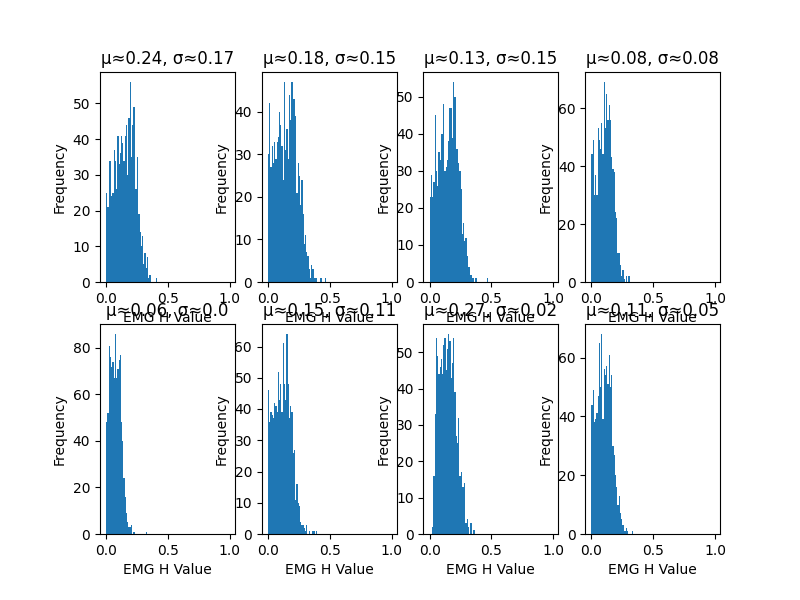
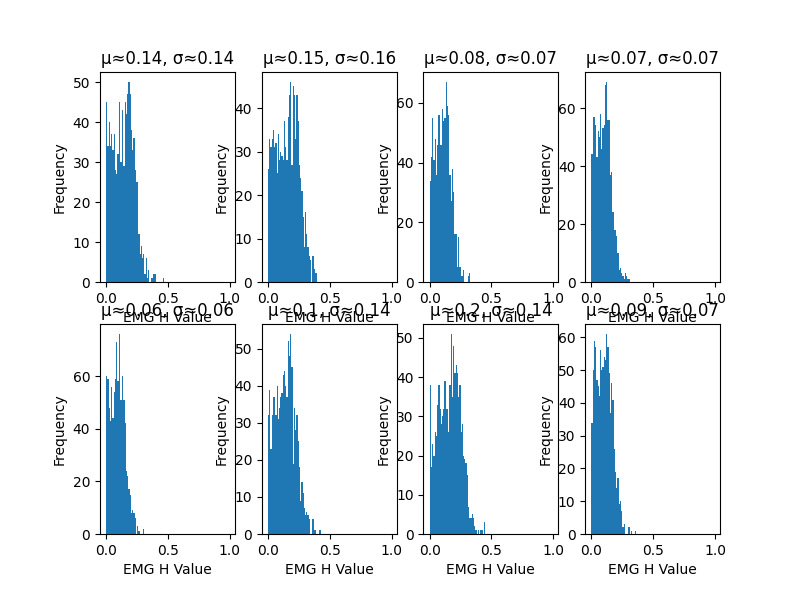
2/9 code

diff --git a/src/script/find_similar_synergies.py b/src/script/find_similar_synergies.py
@@ -14,17 +14,19 @@ from scipy.stats import truncnorm, norm
 from sklearn.preprocessing import normalize
 
 # Input: An 1D array of CSV files containing a reference data CSV and a matching data CSV
-# Returns: H_refs and H_matches, each of which is a dictionary where the key is the tuple (participant, task) and the value is the optimal H
+# Returns: H_refs and H_matches, each of which is a dictionary where the key is the tuple (participant, task) and the value is the optimal H, as well as W_ref and W_match
 def find_all_Hs(data):
     H_refs = {}
     H_matches = {}
+    W_ref = []
+    W_match = []
     for mat in data:
         match_df = pd.read_csv(mat)
         #all_participants = ['c02', 'c04', 'c05', 'c07', 'c08', 'c09', 'c10'] # omitted c06 for now
         #all_tasks = ['10%', '30%', '50%']
         # Group by task
         all_participants = ['c02']
-        all_tasks = ['30%']
+        all_tasks = ['50%']
         for participant in all_participants:
             for task in all_tasks:
                 load_data = match_df.loc[(match_df['Task'] == task) & (match_df['Su'] != 'c06')]
@@ -76,12 +78,14 @@ def find_all_Hs(data):
                     print("H: " + str(H_best))
                     print("EMG mean weights: " + str(np.mean(W_best, axis=0)))
                     H_refs[(participant, task)] = H_best
+                    W_ref = W_best
                     #x=0
                 elif 'match' in mat:
                     print("Match")
                     print("H: " + str(H_best))
                     print("EMG mean weights: " + str(np.mean(W_best, axis=0)))
                     H_matches[(participant, task)] = H_best
+                    W_match = W_best
 
 
     # Plot histogram of H_matches[0]
@@ -100,14 +104,16 @@ def find_all_Hs(data):
     plt.savefig('H_matches histogram for ' + str(task) + ' task')
     plt.show()
 
-    return H_refs, H_matches
+    return H_refs, H_matches, W_ref, W_match
 
 
 def scalar_prod_similarity_normal():
     datasets = np.array(['../data/referenceData_121120.csv', '../data/matchData_121120.csv'])
 
     # Find Hs for all the datasets
-    H_refs, H_matches = find_all_Hs(datasets)
+    H_refs, H_matches, W_ref, W_match = find_all_Hs(datasets)
+    H_refs[0] = normalize(list(H_refs.values())[0], norm='l1')
+    H_matches[0] = normalize(list(H_matches.values())[0], norm='l1')
     if H_refs == None or H_matches == None:
         return
 
@@ -154,7 +160,8 @@ def scalar_prod_similarity_normal():
         for hmatch in H_matches.keys():
             for i in range(0, H_refs[href].shape[0]):
                 for j in range(0, H_matches[hmatch].shape[0]):
-                    scalar_prods[(href, i, hmatch, j)] = np.dot(H_refs[href][i,:], H_matches[hmatch][j,:])
+                    #scalar_prods[(href, i, hmatch, j)] = np.dot(H_refs[href][i,:], H_matches[hmatch][j,:])
+                    scalar_prods[("H_ref", i, "H_match", j)] = np.dot(H_refs[href][i, :], H_matches[hmatch][j, :])
 
     # Add scalar products of H_ref_rand and H_match_rand to the dictionary
     # key is of form ("H_ref_rand", H_ref row, "H_match_rand", H_match row)
@@ -239,7 +246,8 @@ def scalar_prod_similarity_truncnorm():
         for hmatch in H_matches.keys():
             for i in range(0, H_refs[href].shape[0]):
                 for j in range(0, H_matches[hmatch].shape[0]):
-                    scalar_prods[(href, i, hmatch, j)] = np.dot(H_refs[href][i,:], H_matches[hmatch][j,:])
+                    #scalar_prods[(href, i, hmatch, j)] = np.dot(H_refs[href][i,:], H_matches[hmatch][j,:])
+                    scalar_prods[("H_ref", i, "H_match", j)] = np.dot(H_refs[href][i, :], H_matches[hmatch][j, :])
 
     # Add scalar products of H_ref_rand and H_match_rand to the dictionary
     # key is of form ("H_ref_rand", H_ref row, "H_match_rand", H_match row)
@@ -266,7 +274,7 @@ def scalar_prod_similarity_uniform():
     datasets = np.array(['../data/referenceData_121120.csv', '../data/matchData_121120.csv'])
 
     # Find Hs for all the datasets
-    H_refs, H_matches = find_all_Hs(datasets)
+    H_refs, H_matches, W_ref, W_match = find_all_Hs(datasets)
     print("H_refs: " + str(H_refs))
     print("H_matches: " + str(H_matches))
     if H_refs == None or H_matches == None:
@@ -274,15 +282,22 @@ def scalar_prod_similarity_uniform():
 
     plt.rcParams["figure.figsize"] = (8, 6)
     fig, axs = plt.subplots(2, 2)
+    """
     x_axis_names = ['Bicep', 'Tricep lateral',
                     'Anterior deltoid', 'Medial deltoid',
                     'Posterior deltoid', 'Pectoralis major',
                     'Lower trapezius', 'Middle trapezius']
+    """
+    x_axis_names = ['Bicep', 'Tri. lat.',
+                    'Ant. delt.', 'Med. delt.',
+                    'Post. delt.', 'Pect. major',
+                    'Lower trap.', 'Mid. trap.']
     x = np.arange(0,8)
     H_matches_values = list(H_matches.values())
     for syn in range(0, H_matches_values[0].shape[0]):
         axs[int(syn/2), syn % 2].bar(x, H_matches_values[0][syn,:])
-        axs[int(syn/2), syn % 2].set_xticklabels(x_axis_names, rotation=15)
+        axs[int(syn/2), syn % 2].set_xticks(np.arange(0,8))
+        axs[int(syn/2), syn % 2].set_xticklabels(x_axis_names, rotation=45)
         axs[int(syn/2), syn % 2].set_title('Row ' + str(syn))
         axs[int(syn/2), syn % 2].set_xlabel('EMG')
         axs[int(syn/2), syn % 2].set_ylabel('H Value')
@@ -297,7 +312,8 @@ def scalar_prod_similarity_uniform():
     H_refs_values = list(H_refs.values())
     for syn in range(0, H_refs_values[0].shape[0]):
         axs[int(syn / 2), syn % 2].bar(x, H_refs_values[0][syn, :])
-        axs[int(syn / 2), syn % 2].set_xticklabels(x_axis_names, rotation=15)
+        axs[int(syn / 2), syn % 2].set_xticks(np.arange(0, 8))
+        axs[int(syn / 2), syn % 2].set_xticklabels(x_axis_names, rotation=45)
         axs[int(syn / 2), syn % 2].set_title('Row ' + str(syn))
         axs[int(syn / 2), syn % 2].set_xlabel('EMG')
         axs[int(syn / 2), syn % 2].set_ylabel('H Value')
@@ -374,7 +390,8 @@ def scalar_prod_similarity_uniform():
         for hmatch in H_matches.keys():
             for i in range(0, H_refs[href].shape[0]):
                 for j in range(0, H_matches[hmatch].shape[0]):
-                    scalar_prods[(href, i, hmatch, j)] = np.dot(H_refs[href][i,:], H_matches[hmatch][j,:])
+                    #scalar_prods[(href, i, hmatch, j)] = np.dot(H_refs[href][i, :], H_matches[hmatch][j, :])
+                    scalar_prods[("H_ref", i, "H_match", j)] = np.dot(H_refs[href][i,:], H_matches[hmatch][j,:])
 
     # Add scalar products of H_ref_rand and H_match_rand to the dictionary
     # key is of form ("H_ref_rand", H_ref row, "H_match_rand", H_match row)
@@ -388,12 +405,25 @@ def scalar_prod_similarity_uniform():
     keys_percentile95_and_above = list(sorted_scalar_prods)[percentile95_index:]
     participant_synergy_pairs = [pair for pair in keys_percentile95_and_above if pair[0][0] != "H_ref_rand"] # participant data, not random data
     print("participant_synergy_pairs: " + str(participant_synergy_pairs))
-    syn_pairs_same_participant_and_task = [pair for pair in participant_synergy_pairs if pair[0][0] == pair[0][2]] # if both correspond to same participant and same task
+    #syn_pairs_same_participant_and_task = [pair for pair in participant_synergy_pairs if pair[0][0] == pair[0][2]] # if both correspond to same participant and same task
     # choose rank number of synergy pairs with the highest scalar product if the syn_pairs_same_participant_and_task >= rank
     rank = np.shape(H_matches_concat)[0]
-    if rank < len(syn_pairs_same_participant_and_task):
-        syn_pairs_same_participant_and_task = syn_pairs_same_participant_and_task[-rank:]
-    print("syn_pairs_same_participant_and_task: " + str(syn_pairs_same_participant_and_task))
+
+    matches_dict = {} # key: H_ref row. value: (H_match row, scalar product)
+    for i in range(0,rank):
+        matches_dict[i] = [(pair[0][3], pair[1]) for pair in participant_synergy_pairs if pair[0][1] == i][-1] # pick the match for a given row that appears last since it's in the highest percentile
+        if matches_dict[i] == None:
+            print("Match for row " + str(i) + ": " + "None")
+        else:
+            match_for_i = matches_dict[i][0]
+            W_ref_means = np.mean(W_ref, axis=0)
+            W_match_means = np.mean(W_match, axis=0)
+            print("Match for row " + str(i) + ": " + str(match_for_i) + ", with H_ref: " + str(list(H_refs.values())[0][i,:]) + ", W_ref: " + str(W_ref_means[i]) + ", H_match: " + str(list(H_matches.values())[0][match_for_i,:]) + ", W_match: " + str(W_match_means[match_for_i]) + ", and scalar product: " + str(matches_dict[i][1]))
+
+
+    #if rank < len(syn_pairs_same_participant_and_task):
+    #    syn_pairs_same_participant_and_task = syn_pairs_same_participant_and_task[-rank:]
+    #print("syn_pairs_same_participant_and_task: " + str(syn_pairs_same_participant_and_task))
     #print("syn_pairs_same_participant_and_task: " + str(syn_pairs_same_participant_and_task))
     #percent_same_participant_and_task = ((len(syn_pairs_same_participant_and_task) / len(participant_synergy_pairs)) * 100) if len(participant_synergy_pairs) != 0 else 'nan'
     #print("percent_same_participant_and_task: " + str(percent_same_participant_and_task))
